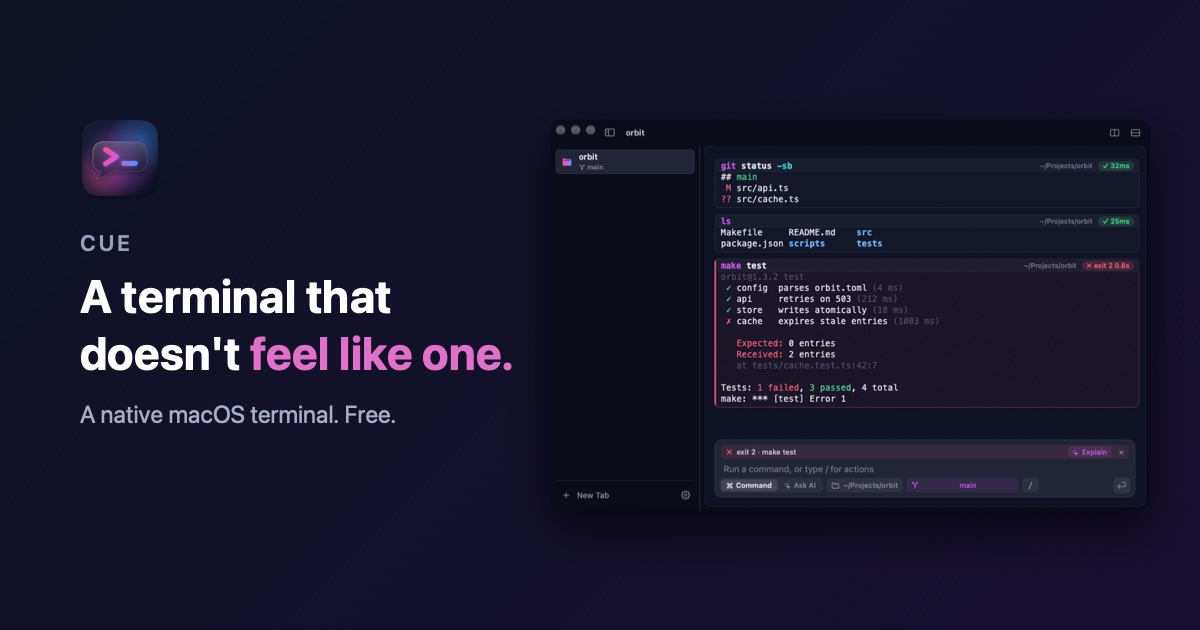
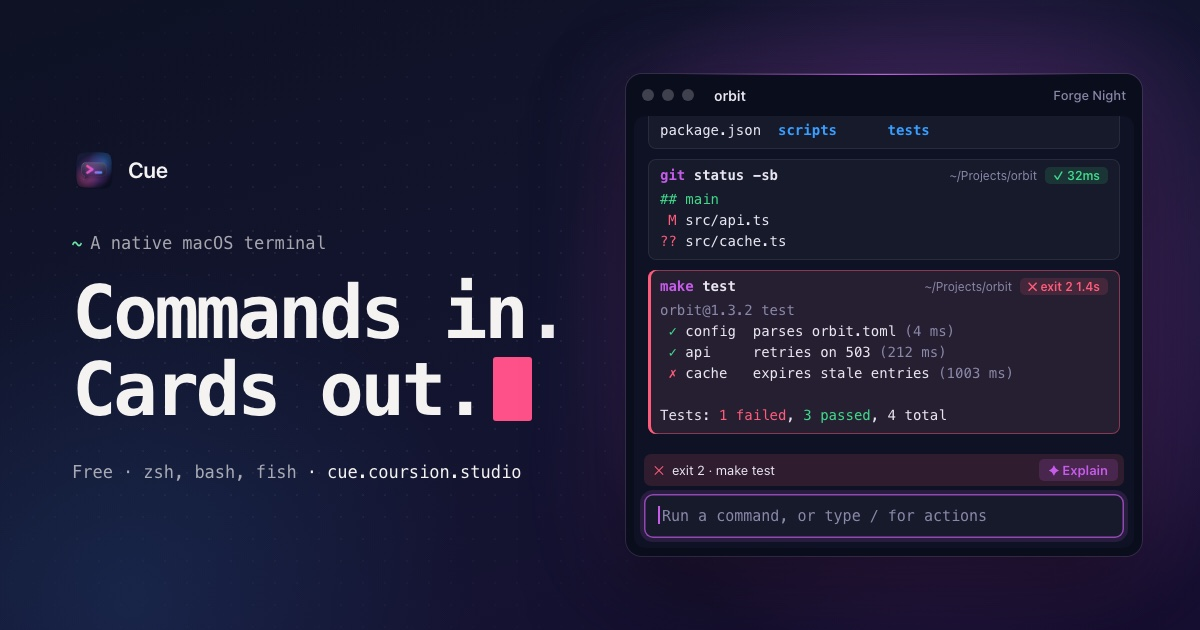
Replace the social preview with the new hero look
og.jpg now shows the "Commands in. Cards out." monospace headline with
the pink block cursor beside a terminal of command cards. Its source is
og/og.html, re-rendered at 1200x630 with headless Chrome by
og/render.sh. og:image carries a content hash so cached previews
refresh.

diff --git a/og/og.html b/og/og.html
@@ -1,0 +1,139 @@
+<!doctype html>
+<html lang="en">
+<head>
+<meta charset="utf-8" />
+<title>Cue social preview</title>
+<style>
+  :root {
+    --sans: -apple-system, BlinkMacSystemFont, "SF Pro Display", "SF Pro Text", "Inter", system-ui, sans-serif;
+    --mono: ui-monospace, SFMono-Regular, "SF Mono", Menlo, monospace;
+    --fg: #F5F3F2;
+    --dim: rgb(245 243 242 / 0.66);
+    --t-bg: #0E1224;
+    --t-fg: #E8E6F0;
+    --t-dim: #8A88A8;
+    --t-card: rgb(255 255 255 / 0.035);
+    --t-line: rgb(255 255 255 / 0.08);
+    --t-red: #FF5C7A;
+    --t-green: #3FD98A;
+    --t-yellow: #F7B13C;
+    --t-blue: #389EFF;
+    --t-accent: #C75CEB;
+    --t-chrome: #0A0D1C;
+  }
+  * { box-sizing: border-box; }
+  html, body { margin: 0; }
+  body {
+    position: relative;
+    width: 1200px;
+    height: 630px;
+    overflow: hidden;
+    font: 16px/1.5 var(--sans);
+    color: var(--fg);
+    background: linear-gradient(160deg, #0E1224 0, #131530 55%, #170F31 100%);
+    -webkit-font-smoothing: antialiased;
+  }
+  .glow { position: absolute; border-radius: 50%; pointer-events: none; }
+  .glow.a { right: -120px; top: -80px; width: 760px; height: 760px; background: radial-gradient(closest-side, rgb(199 92 235 / 0.30), transparent); }
+  .glow.b { left: -220px; bottom: -320px; width: 700px; height: 700px; background: radial-gradient(closest-side, rgb(56 158 255 / 0.12), transparent); }
+  .grid {
+    position: absolute;
+    inset: 0;
+    background-image: radial-gradient(rgb(255 255 255 / 0.06) 1px, transparent 1.2px);
+    background-size: 22px 22px;
+    mask-image: radial-gradient(ellipse 70% 80% at 30% 50%, #000 20%, transparent 75%);
+  }
+  .copy { position: absolute; left: 72px; top: 0; bottom: 0; width: 520px; display: flex; flex-direction: column; justify-content: center; }
+  .brand { display: flex; align-items: center; gap: 12px; margin-bottom: 40px; font: 600 22px var(--sans); letter-spacing: -0.01em; }
+  .brand img { width: 44px; height: 44px; border-radius: 10px; }
+  .eyebrow { margin: 0 0 18px; font: 500 17px/1.4 var(--mono); color: var(--dim); }
+  .eyebrow b { color: #6BE6A6; font-weight: 700; margin-right: 8px; }
+  h1 { margin: 0; font: 700 74px/1.04 var(--mono); letter-spacing: -0.045em; }
+  .cursor { display: inline-block; width: 0.52em; height: 0.86em; margin-left: 0.12em; vertical-align: -0.08em; border-radius: 3px; background: #FF5189; }
+  .meta { margin: 34px 0 0; font: 17px var(--mono); color: var(--dim); }
+  .meta span + span::before { content: "·"; margin: 0 10px; }
+  .meta .url { color: var(--fg); }
+
+  .term {
+    position: absolute;
+    left: 626px;
+    top: 74px;
+    width: 516px;
+    height: 482px;
+    display: flex;
+    flex-direction: column;
+    border-radius: 16px;
+    overflow: hidden;
+    background: var(--t-chrome);
+    color: var(--t-fg);
+    box-shadow: 0 0 0 1px rgb(255 255 255 / 0.1), 0 40px 90px rgb(0 0 0 / 0.55), 0 0 100px rgb(199 92 235 / 0.2);
+  }
+  .term::before { content: ""; position: absolute; top: 0; left: 10%; right: 10%; height: 1px; background: linear-gradient(90deg, transparent, var(--t-accent), transparent); }
+  .bar { flex: none; display: flex; align-items: center; gap: 8px; height: 42px; padding: 0 16px; font: 600 14px var(--sans); }
+  .bar i { width: 12px; height: 12px; border-radius: 50%; background: rgb(128 128 140 / 0.45); }
+  .bar b { margin-left: 12px; font-weight: 600; }
+  .bar em { margin-left: auto; font-style: normal; font-weight: 500; font-size: 13px; color: var(--t-dim); }
+  .cards { flex: 1; display: flex; flex-direction: column; justify-content: flex-end; gap: 10px; margin: 0 8px; padding: 14px 14px 10px; border-radius: 11px 11px 0 0; background: var(--t-bg); overflow: hidden; }
+  .card { flex: none; border-radius: 8px; background: var(--t-card); box-shadow: inset 0 0 0 1px var(--t-line); font: 14px/1.5 var(--mono); }
+  .card.fail { background: color-mix(in srgb, var(--t-red) 7%, var(--t-card)); box-shadow: inset 0 0 0 1px color-mix(in srgb, var(--t-red) 45%, transparent), inset 3px 0 0 var(--t-red); }
+  .head { display: flex; align-items: center; gap: 10px; padding: 6px 12px 3px; }
+  .cmd { font-weight: 700; color: var(--t-accent); }
+  .cmd span { color: var(--t-fg); font-weight: 600; }
+  .m { margin-left: auto; display: inline-flex; align-items: center; gap: 8px; font: 12px var(--sans); color: var(--t-dim); }
+  .pill { padding: 1px 8px; border-radius: 5px; font-weight: 600; }
+  .ok { color: var(--t-green); background: color-mix(in srgb, var(--t-green) 14%, transparent); }
+  .bad { color: var(--t-red); background: color-mix(in srgb, var(--t-red) 14%, transparent); }
+  pre { margin: 0; padding: 0 12px 8px; font: inherit; white-space: pre; }
+  .r { color: var(--t-red); } .g { color: var(--t-green); } .y { color: var(--t-yellow); } .b { color: var(--t-blue); font-weight: 600; } .d { color: var(--t-dim); }
+  .cmp { flex: none; margin: 0 8px 8px; padding: 10px; border-radius: 0 0 11px 11px; background: var(--t-bg); }
+  .fail-bar { display: flex; align-items: center; gap: 8px; margin-bottom: 8px; padding: 5px 6px 5px 10px; border-radius: 7px; font: 13px var(--sans); background: color-mix(in srgb, var(--t-red) 14%, transparent); }
+  .fail-bar .x { color: var(--t-red); }
+  .explain { margin-left: auto; padding: 3px 10px; border-radius: 5px; font-weight: 600; color: var(--t-accent); background: color-mix(in srgb, var(--t-accent) 16%, transparent); }
+  .field { height: 44px; padding: 0 14px; border-radius: 9px; font: 15px/44px var(--mono); color: var(--t-fg); box-shadow: inset 0 0 0 1.5px color-mix(in srgb, var(--t-accent) 70%, transparent), 0 0 0 4px color-mix(in srgb, var(--t-accent) 14%, transparent); background: color-mix(in srgb, var(--t-fg) 4%, transparent); }
+  .field .ph { color: var(--t-dim); }
+  .field .caret { display: inline-block; width: 2px; height: 18px; margin-right: 2px; vertical-align: -3px; background: var(--t-accent); }
+</style>
+</head>
+<body>
+  <div class="glow a"></div>
+  <div class="glow b"></div>
+  <div class="grid"></div>
+
+  <div class="copy">
+    <div class="brand"><img src="../icon.png" alt="" /><span>Cue</span></div>
+    <p class="eyebrow"><b>~</b>A native macOS terminal</p>
+    <h1>Commands in.<br />Cards out.<span class="cursor"></span></h1>
+    <p class="meta"><span>Free</span><span>zsh, bash, fish</span><span class="url">cue.coursion.studio</span></p>
+  </div>
+
+  <div class="term">
+    <div class="bar"><i></i><i></i><i></i><b>orbit</b><em>Forge Night</em></div>
+    <div class="cards">
+      <div class="card">
+        <div class="head"><span class="cmd">ls</span><span class="m">~/Projects/orbit<span class="pill ok">✓ 25ms</span></span></div>
+        <pre>Makefile      README.md    <span class="b">src</span>
+package.json  <span class="b">scripts</span>      <span class="b">tests</span></pre>
+      </div>
+      <div class="card">
+        <div class="head"><span class="cmd">git <span>status -sb</span></span><span class="m">~/Projects/orbit<span class="pill ok">✓ 32ms</span></span></div>
+        <pre><span class="g">## main</span>
+ <span class="r">M</span> src/api.ts
+<span class="r">??</span> src/cache.ts</pre>
+      </div>
+      <div class="card fail">
+        <div class="head"><span class="cmd">make <span>test</span></span><span class="m">~/Projects/orbit<span class="pill bad">✕ exit 2 1.4s</span></span></div>
+        <pre><span class="d">orbit@1.3.2 test</span>
+ <span class="g">✓</span> config  parses orbit.toml <span class="d">(4 ms)</span>
+ <span class="g">✓</span> api     retries on 503 <span class="d">(212 ms)</span>
+ <span class="r">✗</span> cache   expires stale entries <span class="d">(1003 ms)</span>
+
+Tests: <span class="r">1 failed</span>, <span class="g">3 passed</span>, 4 total</pre>
+      </div>
+    </div>
+    <div class="cmp">
+      <div class="fail-bar"><span class="x">✕</span><span>exit 2 · make test</span><span class="explain">✦ Explain</span></div>
+      <div class="field"><span class="caret"></span><span class="ph">Run a command, or type / for actions</span></div>
+    </div>
+  </div>
+</body>
+</html>

diff --git a/index.html b/index.html
@@ -15,7 +15,7 @@
   <meta property="og:url" content="https://cue.coursion.studio/" />
   <meta property="og:title" content="Cue — A terminal that doesn't feel like one" />
   <meta property="og:description" content="A free, native macOS terminal: a real input bar, every command as a card, a ⌘K palette, a Quick Terminal from anywhere, project tasks, and your own Claude one keystroke away." />
-  <meta property="og:image" content="https://cue.coursion.studio/og.jpg" />
+  <meta property="og:image" content="https://cue.coursion.studio/og.jpg?v=701c90cdd7" />
   <meta property="og:image:width" content="1200" />
   <meta property="og:image:height" content="630" />
   <meta name="twitter:card" content="summary_large_image" />

diff --git a/releases.html b/releases.html
@@ -15,7 +15,7 @@
   <meta property="og:url" content="https://cue.coursion.studio/releases.html" />
   <meta property="og:title" content="Release notes — Cue" />
   <meta property="og:description" content="What changed in each version of Cue. Latest: 0.4.1." />
-  <meta property="og:image" content="https://cue.coursion.studio/og.jpg" />
+  <meta property="og:image" content="https://cue.coursion.studio/og.jpg?v=701c90cdd7" />
   <meta name="twitter:card" content="summary_large_image" />
   <meta name="theme-color" content="#0E1224" />
 </head>
